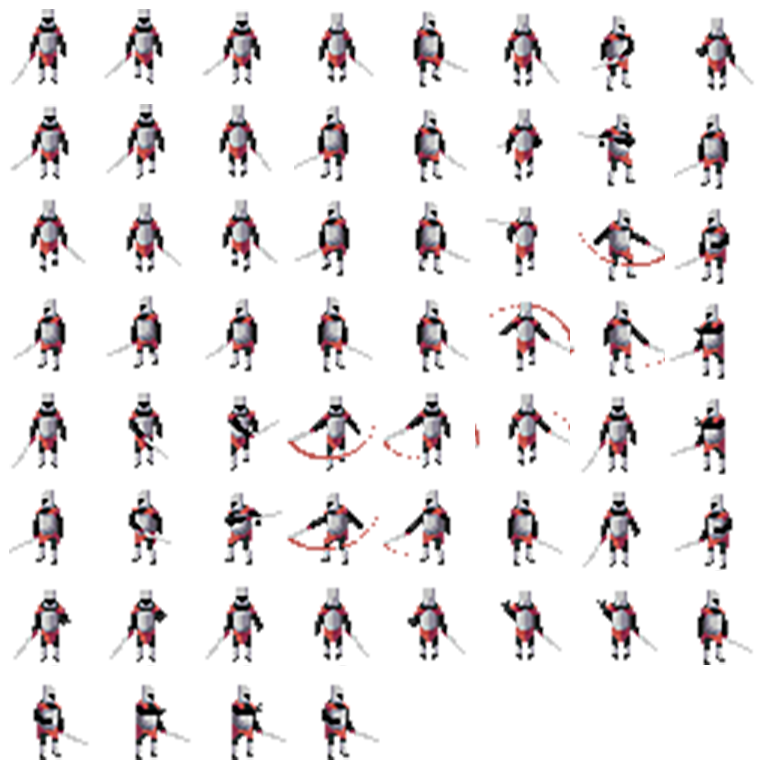
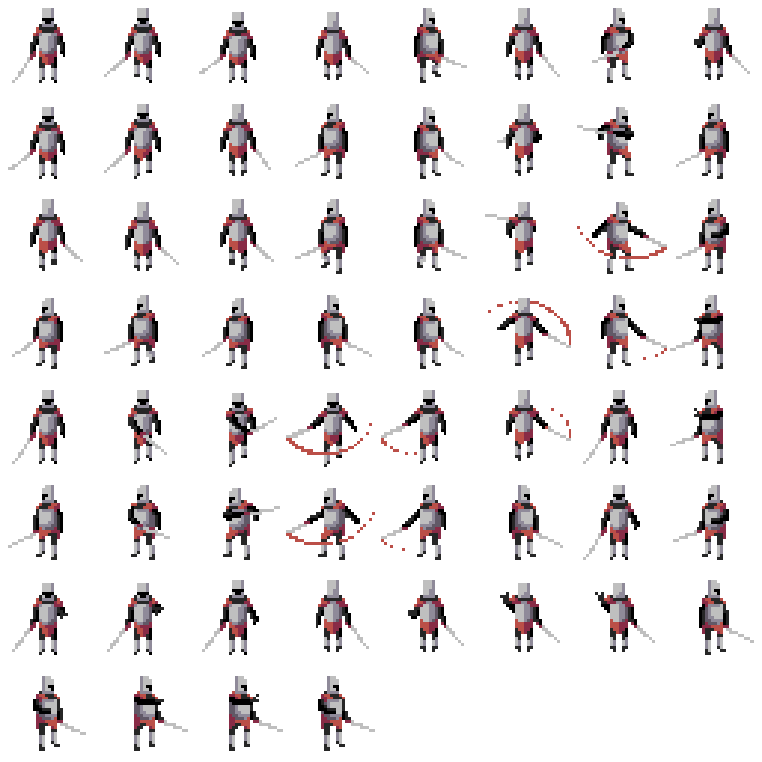
Version MUY alpha del juego, pero una version funcional

diff --git a/Jugador/jugador.js b/Jugador/jugador.js
@@ -17,6 +17,19 @@ class jugador extends Phaser.Physics.Arcade.Sprite {
     this.PlayerMove = false;
     this.setScale(0.2);
     this.pickKey = false;
+    this.vidasJugador = 3;
+    this.numGolpes = 0;
+    // Se crea una hitbox para el ataque
+    this.attackHitbox = scene.physics.add.sprite(0, 0, "key_texture");
+    this.attackHitbox.setSize(16, 16);
+    this.attackHitbox.setVisible(false);
+    this.attackHitbox.alpha = 0;
+    scene.physics.add.collider(
+      this.attackHitbox,
+      this.handleAttackCollision,
+      null,
+      this
+    );
   }
   update() {
     this.updatePlayerMovement();
@@ -25,24 +38,15 @@ class jugador extends Phaser.Physics.Arcade.Sprite {
       this.pickKey = true;
     });
   }
-
-  //Se crean las animacion para el persona, utilizando un atlas donde se determina cada animación por separado
-  //unu muy tedioso pero util a futuro
-  animationCharacter(animationNames) {
-    this.animationNames = {};
-    for (let name of animationNames) {
-      this.animationNames[name] = "knight_" + name;
-      this.scene.anims.create({
-        key: "knight_" + name,
-        frames: this.scene.anims.generateFrameNames("PlayerAnimation", {
-          start: 1,
-          end: 4,
-          prefix: "knight_" + name + "_",
-        }),
-        frameRate: 5,
-      });
+  recibirDamage() {
+    this.numGolpes++;
+    if (this.numGolpes >= this.vidasJugador) {
+      this.scene.start("Menu_Inicio", Menu_Inicio, true);
+      this.scene.stop();
+      this.BackgroundMusic.stop();
     }
   }
+
   //Funcion para rotar constantemente la camara cada vez que el jugador se mueve
   rotacionCamara() {
     var min = -0.045;
@@ -79,34 +83,94 @@ class jugador extends Phaser.Physics.Arcade.Sprite {
       this.PlayerMove = true;
       this.scene.cam.setRotation(this.rotacionCamara());
     }
-
     //
 
     if (this.teclas.A.isDown) {
       this.anims.play(this.animationNames["walk_left"], true);
+      this.direccion = "left";
     } else if (this.teclas.D.isDown) {
       this.anims.play(this.animationNames["walk_right"], true);
+      this.direccion = "right";
     } else if (this.teclas.W.isDown) {
       this.anims.play(this.animationNames["walk_up"], true);
+      this.direccion = "up";
     } else if (this.teclas.S.isDown) {
       this.anims.play(this.animationNames["walk_down"], true);
+      this.direccion = "down";
+    } else if (this.teclas.SPACE.isDown) {
+      this.attack();
     } else {
-      //this.anims.stop();
+      this.attackHitbox.setVisible(false);
       this.anims.play(this.animationNames["Idle_Down"], true);
       this.PlayerMove = false;
     }
   }
-  attack() {
-    //Dependiendo de la ultima direccion ejecuta una animacion
-    if (this.direccion) {
-      this.isAttacking = true;
-      this.play(this.animationNames["attack_" + this.direccion], true);
-      this.on(
-        "animationcomplete-" + this.animationNames["attack_" + this.direccion],
-        () => {
-          this.isAttacking = false;
-        }
-      );
+
+  //Se crean las animacion para el persona, utilizando un atlas donde se determina cada animación por separado
+  //unu muy tedioso pero util a futuro
+  animationCharacter(animationNames) {
+    this.animationNames = {};
+
+    for (let name of animationNames) {
+      this.animationNames[name] = "knight_" + name;
+      this.scene.anims.create({
+        key: "knight_" + name,
+        frames: this.scene.anims.generateFrameNames("PlayerAnimation", {
+          start: 1,
+          end: 4,
+          prefix: "knight_" + name + "_",
+        }),
+
+        frameRate: 6,
+      });
     }
+  }
+  attack() {
+    if (!this.isAttacking) {
+      //Dependiendo de la ultima direccion ejecuta una animacion
+      if (this.direccion) {
+        this.isAttacking = true;
+        this.play(this.animationNames["attack_" + this.direccion], true);
+        this.on(
+          "animationcomplete-" +
+            this.animationNames["attack_" + this.direccion],
+          () => {
+            if (!this.attackHitbox.visible) return; // Evitar múltiples detecciones de colisión
+            this.scene.physics.overlap(
+              this.attackHitbox,
+              this.scene.enemigosGroup,
+              (attackHitbox, enemy) => {
+                this.handleAttackCollision(attackHitbox, enemy);
+              }
+            );
+            this.isAttacking = false;
+            this.attackHitbox.x = 1000;
+            this.attackHitbox.y = 1000;
+            this.attackHitbox.setVisible(false);
+          }
+        );
+        if (this.direccion === "down") {
+          this.attackHitbox.x = this.x;
+          this.attackHitbox.y = this.y + 15;
+        } else if (this.direccion === "left") {
+          this.attackHitbox.x = this.x - 10;
+          this.attackHitbox.y = this.y + 5;
+        } else if (this.direccion === "right") {
+          this.attackHitbox.x = this.x + 10;
+          this.attackHitbox.y = this.y + 5;
+        } else if (this.direccion === "up") {
+          this.attackHitbox.x = this.x;
+          this.attackHitbox.y = this.y - 15;
+        }
+        this.attackHitbox.setVisible(true);
+      }
+    }
+    this.isAttacking = false;
+  }
+  // Función para manejar la colisión con la hitbox de ataque
+  handleAttackCollision(attackHitbox, enemy) {
+    // Lógica para manejar la colisión con el enemigo
+    // Puedes hacer lo que necesites aquí, como dañar al enemigo, etc.
+    enemy.recibirGolpes();
   }
 }

diff --git a/Assets/Enemigos/Slime/Slime.js b/Assets/Enemigos/Slime/Slime.js
@@ -12,7 +12,12 @@ class slime extends Phaser.Physics.Arcade.Sprite {
     this.distanciaJugador;
     this.persiguiendoJugador = false;
     this.atacandoJugador = false;
+    this.numGolpes = 0;
+    this.vida = 3;
+    this.tiempoEntreGolpes = 1000; // Tiempo en milisegundos entre golpes
+    this.ultimoGolpeTiempo = 0;
   }
+
   update() {
     this.distanciaJugador = Phaser.Math.Distance.BetweenPoints(
       this.scene.jugador,
@@ -45,44 +50,72 @@ class slime extends Phaser.Physics.Arcade.Sprite {
   }
 
   seguirJugador() {
-    if (!this.atacandoJugador) {
-      this.persiguiendoJugador = true;
-      setTimeout(() => {
-        this.scene.physics.moveToObject(this, this.scene.jugador, 30);
-      }, 500);
+    if (this.numGolpes < this.vida) {
+      if (!this.atacandoJugador) {
+        this.persiguiendoJugador = true;
+        setTimeout(() => {
+          this.scene.physics.moveToObject(this, this.scene.jugador, 30);
+        }, 500);
 
-      this.play(this.animationNames["move"], true);
-      if (this.x > this.scene.jugador.x) {
-        this.setFlipX(false);
-      } else {
-        this.setFlipX(true);
-      }
+        this.play(this.animationNames["move"], true);
+        if (this.x > this.scene.jugador.x) {
+          this.setFlipX(false);
+        } else {
+          this.setFlipX(true);
+        }
 
-      if (this.distanciaJugador <= this.rangoAtaque) {
-        this.persiguiendoJugador = false;
-        this.atacandoJugador = true;
-        console.log("Cerca para atacar");
-        //this.anims.stop();
+        if (this.distanciaJugador <= this.rangoAtaque) {
+          this.persiguiendoJugador = false;
+          this.atacandoJugador = true;
+          //this.anims.stop();
+        }
       }
     }
   }
   atacarJugador() {
-    if (!this.persiguiendoJugador) {
-      console.log("Atacando");
-      this.play(this.animationNames["attack"], true);
-      this.scene.physics.overlap(
-        this,
-        this.scene.jugador,
-        (enemigo, player) => {
-          console.log("ay mi pichula");
+    if (this.numGolpes < this.vida) {
+      if (!this.persiguiendoJugador) {
+        const tiempoActual = Date.now();
+        if (tiempoActual - this.ultimoGolpeTiempo >= this.tiempoEntreGolpes) {
+          this.play(this.animationNames["attack"], true);
+          this.scene.physics.overlap(
+            this,
+            this.scene.jugador,
+            (enemigo, player) => {
+              console.log("Daño recibido");
+            }
+          );
+          this.ultimoGolpeTiempo = tiempoActual;
         }
-      );
-      if (this.distanciaJugador > this.rangoAtaque) {
-        console.log("Dejando de atacar");
-        this.persiguiendoJugador = true;
-        this.atacandoJugador = false;
-        //this.anims.stop();
+        if (this.distanciaJugador > this.rangoAtaque) {
+          this.persiguiendoJugador = true;
+          this.atacandoJugador = false;
+          //this.anims.stop();
+        }
       }
+    }
+  }
+
+  recibirGolpes() {
+    this.numGolpes++;
+    if (this.numGolpes >= this.vida) {
+      this.enemigoEliminado();
+    }
+  }
+
+  enemigoEliminado() {
+    this.persiguiendoJugador = false;
+    this.atacandoJugador = false;
+    this.anims.stop();
+    this.play(this.animationNames["dead"], true);
+    this.body.setVelocity(0, 0);
+    var playerTileX = this.scene.mapa.worldToTileX(this.jugador.x);
+    var playerTileY = this.scene.mapa.worldToTileY(this.jugador.y);
+    if (Phaser.Math.Between(1, 10) <= 100) {
+      const xLlave = this.scene.mapa.tileToWorldX(playerTileX + 1);
+      const yLlave = this.scene.mapa.tileToWorldY(playerTileY + 1);
+      const nuevaLlave = new Llave(this.scene, xLlave, yLlave, "Llave");
+      this.scene.llave = nuevaLlave;
     }
   }
 }

diff --git a/BaseGame.js b/BaseGame.js
@@ -136,7 +136,7 @@ class Juego_Principal extends Phaser.Scene {
           height: { min: 9, max: 15, onlyOdd: false },
         },
         // Cantidad maxima de cuartos
-        maxRooms: 5,
+        maxRooms: 3,
       },
     });
     this.mapa = this.make.tilemap({
@@ -270,30 +270,6 @@ class Juego_Principal extends Phaser.Scene {
       runChildUpdate: true,
     });
     //Creamos la llave
-    this.llave = new Llave(
-      this,
-      this.mapa.tileToWorldX(playerRoom.x + 3),
-      this.mapa.tileToWorldY(playerRoom.y + 4),
-      "Llave"
-    );
-    //Se crea los enemigos
-    /*     this.enemigo = this.add.group({
-      className: slime,
-      key: "Enemigo",
-      maxSize: 2,
-      repeat: 2,
-      active: false,
-      visible: false,
-      runChildUpdate: true,
-    });
-
-    this.enemigo.add(); */
-    /*     this.enemigo = new slime(
-      this,
-      this.mapa.tileToWorldX(playerRoom.x + 4),
-      this.mapa.tileToWorldY(playerRoom.y + 4),
-      "Enemigo"
-    ); */
 
     //Se crea la luz
     this.luces = this.lights
@@ -368,16 +344,22 @@ class Juego_Principal extends Phaser.Scene {
     //
 
     //
+
     var playerTileX = this.mapa.worldToTileX(this.jugador.x);
     var playerTileY = this.mapa.worldToTileY(this.jugador.y);
     //Un metodo que ayuda a generar las habitaciones creando el cuarto al momento que el jugador entra a la habitación
     var room = this.mazmorra.getRoomAt(playerTileX, playerTileY);
     this.entrarNuevaHabitacion(room);
     this.activeRoom = room;
-
+    const coloresSlimes = ["0x3d93d9", "0x#d0e354", "0xcf3072", "0x#85db84"];
+    function seleccionarColorAleatorio() {
+      const indiceAleatorio = Math.floor(Math.random() * coloresSlimes.length);
+      return coloresSlimes[indiceAleatorio];
+    }
     if (room != this.cuartoInicio && room != this.cuartoFinal) {
       this.enemigosGroup.children.iterate((enemy) => {
         enemy.update();
+        enemy.setTint(0xd0e354);
       });
     }
     /*     this.mazmorra.drawToConsole({
@@ -436,7 +418,6 @@ class Juego_Principal extends Phaser.Scene {
         room.top + 1,
         room.bottom - 1
       );
-      console.log("Aparecio un mostro");
       const enemy = this.enemigosGroup.get(
         enemyX * 16 + 8,
         enemyY * 16 + 8,
